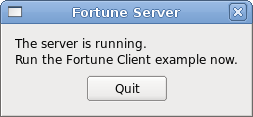
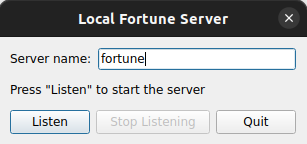
Revamp Local Fortune Server Example: Allow specifying the server name
The server used to hardcode the name while the client allows the
user to specify it. The server's UI is adjusted to let the user first
specify the server name he wants to listen to and second stop listening
to the current server.

Task-number: QTBUG-117064
Pick-to: 6.6 6.5

diff --git a/examples/corelib/ipc/localfortuneserver/server.cpp b/examples/corelib/ipc/localfortuneserver/server.cpp
@@ -3,32 +3,33 @@
 
 #include "server.h"
 
+#include <QDialogButtonBox>
 #include <QGuiApplication>
 #include <QHBoxLayout>
 #include <QLabel>
+#include <QLineEdit>
 #include <QLocalSocket>
 #include <QMessageBox>
 #include <QPushButton>
 #include <QRandomGenerator>
 
+using namespace Qt::StringLiterals;
+
+static const QString idleStateText = QObject::tr("Press \"Listen\" to start the server");
+
 Server::Server(QWidget *parent)
-    : QDialog(parent)
+    : QDialog(parent),
+      server(new QLocalServer(this)),
+      hostLineEdit(new QLineEdit(u"fortune"_s)),
+      statusLabel(new QLabel(idleStateText)),
+      listenButton(new QPushButton(tr("Listen"))),
+      stopListeningButton(new QPushButton(tr("Stop Listening")))
 {
     setWindowFlags(windowFlags() & ~Qt::WindowContextHelpButtonHint);
 
-    server = new QLocalServer(this);
-    if (!server->listen("fortune")) {
-        QMessageBox::critical(this, tr("Local Fortune Server"),
-                              tr("Unable to start the server: %1.")
-                              .arg(server->errorString()));
-        close();
-        return;
-    }
-
-    QLabel *statusLabel = new QLabel;
     statusLabel->setWordWrap(true);
-    statusLabel->setText(tr("The server is running.\n"
-                            "Run the Local Fortune Client example now."));
+
+    stopListeningButton->setDisabled(true);
 
     fortunes << tr("You've been leading a dog's life. Stay off the furniture.")
              << tr("You've got to think about tomorrow.")
@@ -38,21 +39,64 @@ Server::Server(QWidget *parent)
              << tr("You cannot kill time without injuring eternity.")
              << tr("Computers are not intelligent. They only think they are.");
 
+    QLabel *hostLabel = new QLabel(tr("Server name:"));
+
+    connect(server, &QLocalServer::newConnection, this, &Server::sendFortune);
+    connect(hostLineEdit, &QLineEdit::textChanged, this, &Server::toggleListenButton);
+    connect(listenButton, &QPushButton::clicked, this, &Server::listenToServer);
+    connect(stopListeningButton, &QPushButton::clicked,this, &Server::stopListening);
+
     QPushButton *quitButton = new QPushButton(tr("Quit"));
     quitButton->setAutoDefault(false);
     connect(quitButton, &QPushButton::clicked, this, &Server::close);
-    connect(server, &QLocalServer::newConnection, this, &Server::sendFortune);
 
-    QHBoxLayout *buttonLayout = new QHBoxLayout;
-    buttonLayout->addStretch(1);
-    buttonLayout->addWidget(quitButton);
-    buttonLayout->addStretch(1);
+    QDialogButtonBox *buttonBox = new QDialogButtonBox;
+    buttonBox->addButton(listenButton, QDialogButtonBox::ActionRole);
+    buttonBox->addButton(stopListeningButton, QDialogButtonBox::ActionRole);
+    buttonBox->addButton(quitButton, QDialogButtonBox::RejectRole);
 
-    QVBoxLayout *mainLayout = new QVBoxLayout(this);
-    mainLayout->addWidget(statusLabel);
-    mainLayout->addLayout(buttonLayout);
+    QGridLayout *mainLayout = new QGridLayout(this);
+    mainLayout->addWidget(hostLabel, 0, 0);
+    mainLayout->addWidget(hostLineEdit, 0, 1);
+    mainLayout->addWidget(statusLabel, 2, 0, 3, 2);
+    mainLayout->addWidget(buttonBox, 10, 0, 2, 2);
 
     setWindowTitle(QGuiApplication::applicationDisplayName());
+    hostLineEdit->setFocus();
+}
+
+void Server::listenToServer()
+{
+    name = hostLineEdit->text();
+    if (!server->listen(name)) {
+        QMessageBox::critical(this, tr("Local Fortune Server"),
+                              tr("Unable to start the server: %1.")
+                                      .arg(server->errorString()));
+        name.clear();
+        return;
+    }
+    statusLabel->setText(tr("The server is running.\n"
+                            "Run the Local Fortune Client example now."));
+    toggleListenButton();
+}
+
+void Server::stopListening()
+{
+    server->close();
+    name.clear();
+    statusLabel->setText(idleStateText);
+    toggleListenButton();
+}
+
+void Server::toggleListenButton()
+{
+    if (server->isListening()) {
+        listenButton->setDisabled(true);
+        stopListeningButton->setEnabled(true);
+    } else {
+        listenButton->setEnabled(!hostLineEdit->text().isEmpty());
+        stopListeningButton->setDisabled(true);
+    }
 }
 
 void Server::sendFortune()

diff --git a/examples/corelib/ipc/localfortuneserver/server.h b/examples/corelib/ipc/localfortuneserver/server.h
@@ -6,7 +6,10 @@
 
 #include <QApplication>
 #include <QDialog>
+#include <QLabel>
+#include <QLineEdit>
 #include <QLocalServer>
+#include <QPushButton>
 
 class Server : public QDialog
 {
@@ -17,8 +20,17 @@ public:
 
 private:
     void sendFortune();
+    void toggleListenButton();
+    void listenToServer();
+    void stopListening();
+
     QLocalServer *server;
+    QLineEdit *hostLineEdit;
+    QLabel *statusLabel;
+    QPushButton *listenButton;
+    QPushButton *stopListeningButton;
     QStringList fortunes;
+    QString name;
 };
 
 #endif
